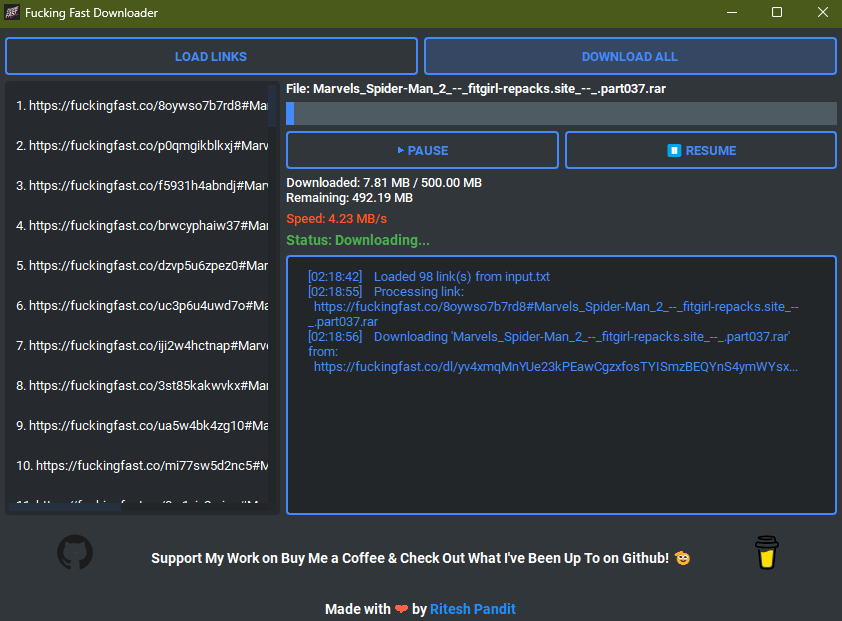
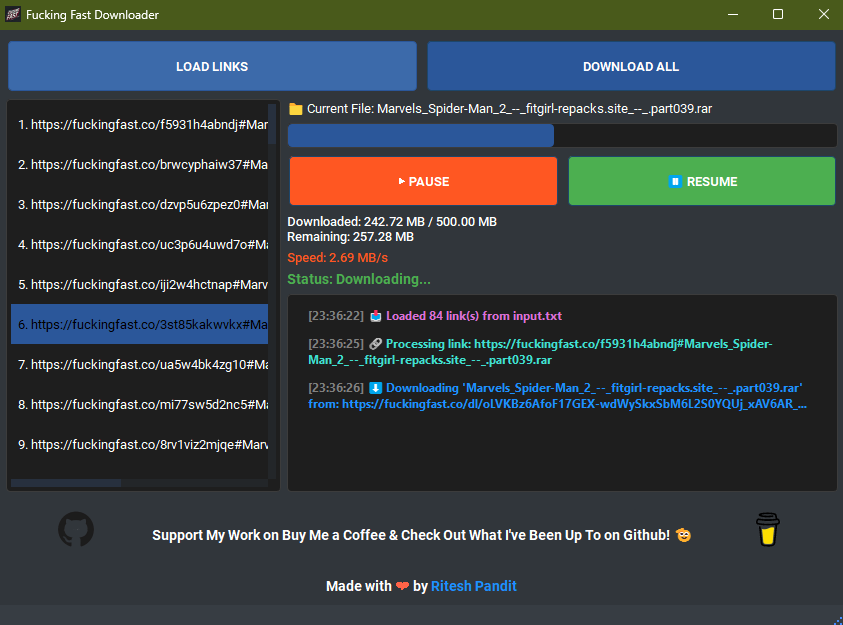
Readme update + New v1.1 preview Image update

diff --git a/README.md b/README.md
@@ -42,7 +42,7 @@ pyinstaller --noconfirm --onefile --windowed \
   --icon "icons/app.ico" \
   --add-data "icons;icons" \
   --add-data "input.txt;." \
-  --name "FuckingFastDownloader" \
+  --name "FFDownloader" \
   main.py
 ```
 
